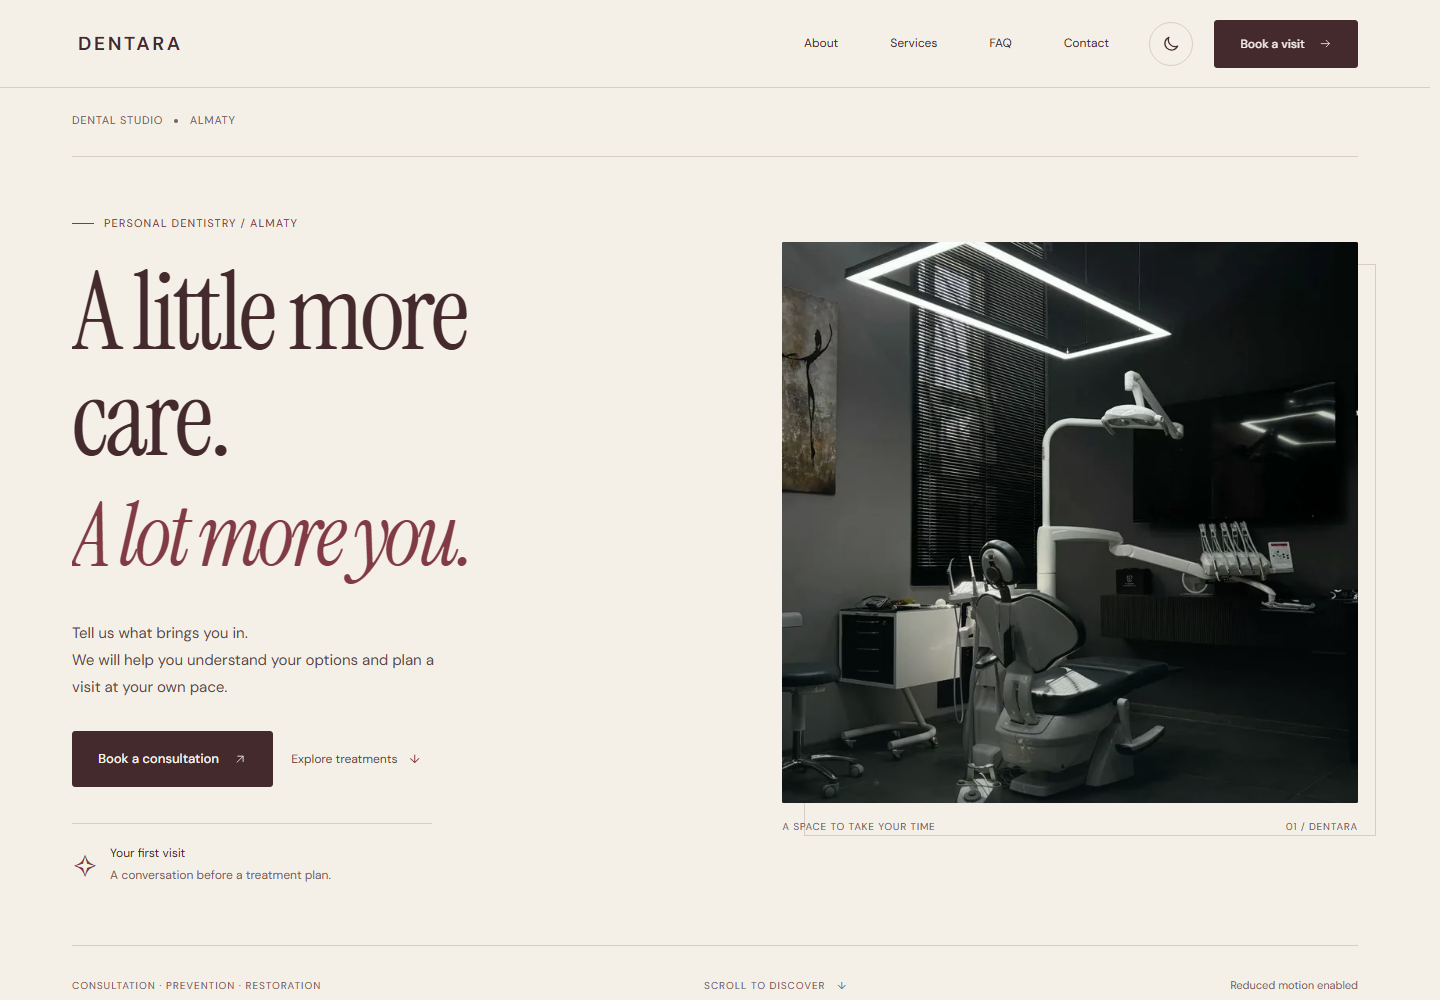
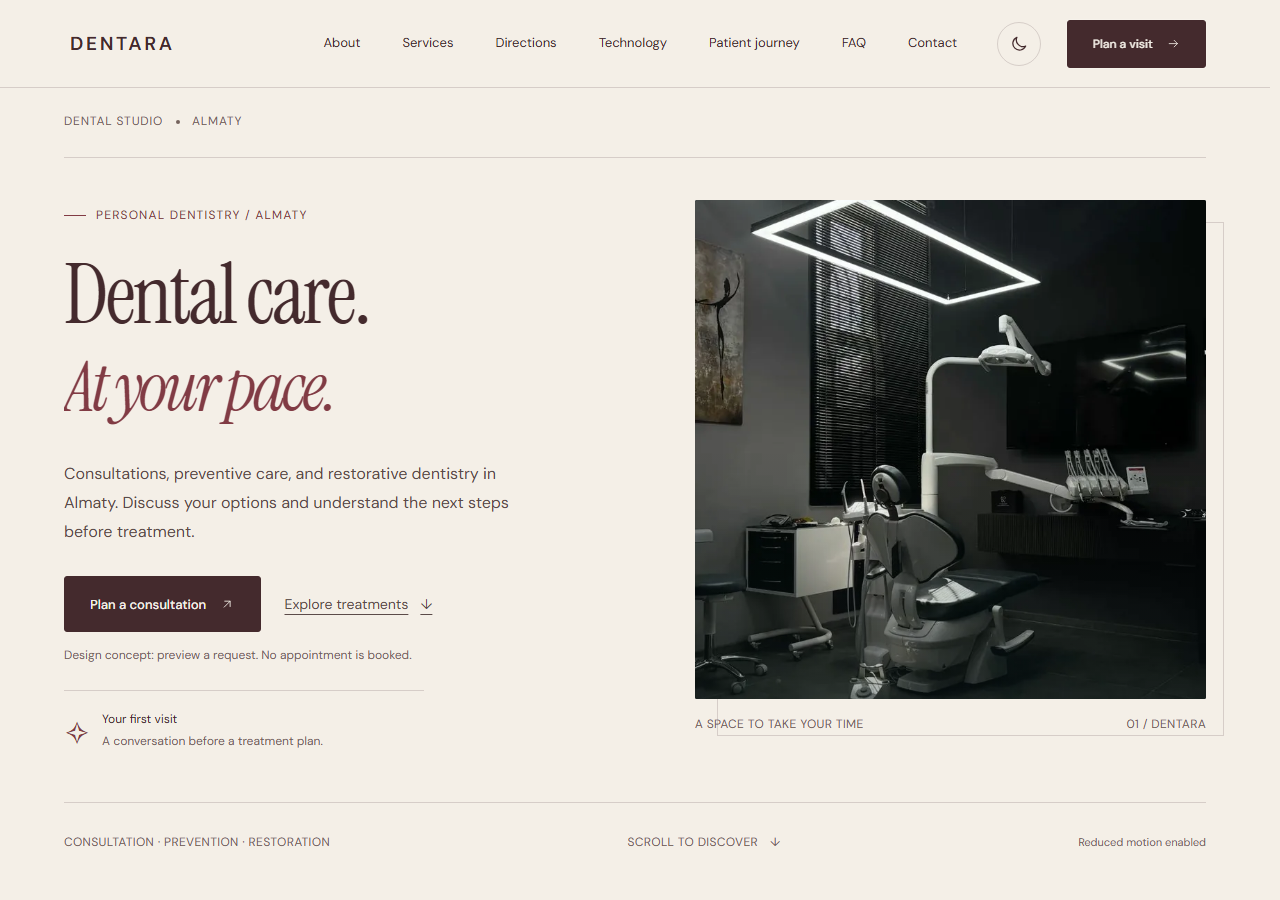
Fix mobile readability, navigation and misleading booking actions

diff --git a/studio.css b/studio.css
@@ -27,7 +27,7 @@ html {
 }
 .hero-editorial {
   padding-top: 112px;
-  min-height: 850px;
+  min-height: 0;
 }
 .hero-editorial .hero-meta {
   padding-bottom: 26px;
@@ -44,12 +44,12 @@ html {
 .hero-stage {
   grid-template-columns: 1.1fr 1fr;
   gap: 6%;
-  padding-block: 42px;
+  padding-block: 32px;
 }
 .hero-content .display {
   font-family: var(--serif);
   font-weight: 400;
-  font-size: clamp(4.5rem, 7.5vw, 8.5rem);
+  font-size: clamp(4rem, 6.6vw, 7rem);
   line-height: 0.98;
   letter-spacing: -0.035em;
   margin-block: 28px;
@@ -242,7 +242,7 @@ html {
     background: none;
     color: var(--ink);
     padding: 0;
-    font-size: 12px;
+    font-size: 14px;
   }
   .rail-nav li:nth-child(3),
   .rail-nav li:nth-child(4),
@@ -284,10 +284,10 @@ html {
   .hero-stage {
     grid-template-columns: 1fr;
     padding-block: 25px;
-    gap: 38px;
+    gap: 24px;
   }
   .hero-content .display {
-    font-size: clamp(3.7rem, 13.8vw, 6rem);
+    font-size: clamp(3.2rem, 12vw, 5rem);
     margin-block: 22px;
   }
   .hero-content .lead {
@@ -351,5 +351,165 @@ html {
   }
   .dir {
     min-height: 280px;
+  }
+}
+
+/* Usability review: readable details, honest CTAs, compact mobile flow. */
+.topbar,
+.topbar.scrolled {
+  background: var(--bg);
+  backdrop-filter: none;
+}
+.hero-content .lead {
+  max-width: 42ch;
+  font-size: 16px;
+}
+.hero-content .actions {
+  gap: 14px 24px;
+}
+.hero-services {
+  min-height: 48px;
+  font-size: 14px;
+  text-decoration: underline;
+  text-underline-offset: 5px;
+}
+.hero-disclaimer {
+  max-width: 43ch;
+  margin-top: 14px;
+  color: var(--muted);
+  font-size: 12px;
+  line-height: 1.6;
+}
+.hero-assurance {
+  margin-top: 24px;
+}
+.hero-portrait figcaption,
+.hero-bottom {
+  font-size: 12px;
+  letter-spacing: 0.03em;
+}
+.hero-meta-location,
+.hero-explore,
+.eyebrow {
+  font-size: 12px;
+}
+.svc-name {
+  font-family: var(--sans);
+  font-size: clamp(1.4rem, 2.6vw, 2rem);
+  font-weight: 500;
+  letter-spacing: -0.025em;
+}
+.svc-desc {
+  font: 400 16px/1.7 var(--sans);
+}
+.svc-price {
+  color: var(--ink-2);
+  font-size: 15px;
+}
+.service-note {
+  font-size: 14px;
+  line-height: 1.7;
+  max-width: 65ch;
+}
+.slat-cap {
+  position: static;
+  display: block;
+  max-width: 100%;
+  padding: 8px;
+  font-size: 12px;
+  white-space: normal;
+  line-height: 1.4;
+}
+.slat {
+  display: flex;
+  align-items: flex-end;
+}
+@media (min-width: 1280px) {
+  .rail {
+    gap: 20px;
+  }
+  .rail-nav ol {
+    gap: 14px;
+  }
+  .rail-nav li:nth-child(3),
+  .rail-nav li:nth-child(4),
+  .rail-nav li:nth-child(5) {
+    display: block;
+  }
+  .rail-nav .tip {
+    font-size: 13px;
+  }
+}
+@media (max-width: 700px) {
+  .hero-editorial {
+    padding-top: 84px;
+  }
+  .hero-editorial .hero-meta {
+    padding-bottom: 14px;
+  }
+  .hero-explore {
+    display: none;
+  }
+  .hero-stage {
+    padding-top: 20px;
+  }
+  .hero-content .display {
+    margin-block: 16px;
+  }
+  .hero-content .lead {
+    font-size: 16px;
+  }
+  .hero-content .actions {
+    display: flex;
+    align-items: stretch;
+    flex-direction: column;
+    gap: 4px;
+    margin-top: 22px;
+  }
+  .hero-content .btn {
+    width: 100%;
+    font-size: 15px;
+  }
+  .hero-services {
+    justify-content: center;
+    font-size: 14px;
+  }
+  .hero-disclaimer {
+    font-size: 12px;
+    margin-top: 8px;
+  }
+  .hero-bottom {
+    font-size: 11px;
+  }
+  .hero-portrait figcaption {
+    font-size: 11px;
+  }
+  .section-head {
+    grid-template-columns: minmax(0, 1fr);
+    gap: 20px;
+    margin-bottom: 28px;
+  }
+  .section-head .head-note {
+    max-width: 42ch;
+    font-size: 16px;
+    line-height: 1.7;
+  }
+  .svc-inner {
+    padding-left: 0;
+  }
+  .svc-name {
+    font-size: 23px;
+  }
+  .svc-inner .btn {
+    width: 100%;
+    justify-self: stretch;
+  }
+  .slats {
+    grid-template-rows: minmax(0, 1fr) 76px;
+    gap: 3px;
+  }
+  .slat-cap {
+    font-size: 11px;
+    padding: 6px;
   }
 }

diff --git a/index.html b/index.html
@@ -153,7 +153,7 @@
       </button>
     </header>
     <button class="btn btn-sm float-cta" type="button" data-book data-page>
-      Book a visit
+      Plan a visit
       <svg class="i" aria-hidden="true"><use href="#i-arrow" /></svg>
     </button>
 
@@ -220,7 +220,7 @@
       </nav>
       <div class="menu-foot">
         <button class="btn" type="button" data-book>
-          Book a visit
+          Plan a visit
           <svg class="i" aria-hidden="true"><use href="#i-arrow" /></svg>
         </button>
         <span class="menu-note">DENTARA · Independent design concept</span>
@@ -248,17 +248,17 @@
               <span></span> PERSONAL DENTISTRY / ALMATY
             </p>
             <h1 id="hero-title" class="display" data-reveal="lines">
-              <span class="ln"><span>A little more</span></span
-              ><span class="ln"><span>care.</span></span
-              ><span class="ln hero-serif"><span>A lot more you.</span></span>
+              <span class="ln"><span>Dental care.</span></span
+              ><span class="ln hero-serif"><span>At your pace.</span></span>
             </h1>
             <p class="lead" data-reveal="up" style="--d: 160ms">
-              Tell us what brings you in.<br />We will help you understand your
-              options and plan a visit at your own pace.
+              Consultations, preventive care, and restorative dentistry in
+              Almaty. Discuss your options and understand the next steps before
+              treatment.
             </p>
             <div class="actions" data-reveal="up" style="--d: 260ms">
               <button class="btn" type="button" data-book>
-                Book a consultation
+                Plan a consultation
                 <svg class="i" aria-hidden="true">
                   <use href="#i-out" />
                 </svg></button
@@ -266,6 +266,9 @@
                 >Explore treatments <span aria-hidden="true">↓</span></a
               >
             </div>
+            <p class="hero-disclaimer">
+              Design concept: preview a request. No appointment is booked.
+            </p>
             <div class="hero-assurance" data-reveal="fade" style="--d: 380ms">
               <span class="assurance-mark" aria-hidden="true">✧</span>
               <p>
@@ -427,12 +430,12 @@
         <div class="wrap">
           <header class="section-head">
             <h2 id="services-title" class="h2" data-reveal="lines">
-              <span class="ln"><span>Care for</span></span
-              ><span class="ln soft"><span>your everyday.</span></span>
+              <span class="ln"><span>Treatments</span></span
+              ><span class="ln soft"><span>&amp; fees.</span></span>
             </h2>
             <p class="head-note" data-reveal="up" style="--d: 150ms">
-              From the first consultation to the final result — your entire
-              treatment is brought together in one thoughtful space.
+              Compare treatments, indicative fees, and timelines. Open a
+              treatment to see the details.
             </p>
           </header>
           <p class="service-note">
@@ -1058,7 +1061,7 @@
             data-reveal="up"
             style="--d: 200ms"
           >
-            Book a visit
+            Plan a visit
             <svg class="i" aria-hidden="true"><use href="#i-arrow" /></svg>
           </button>
         </div>

diff --git a/tests/browser/site.spec.js b/tests/browser/site.spec.js
@@ -235,6 +235,37 @@ for (const width of [320, 390, 768, 1024, 1440]) {
     await expect(page.locator("#services-title")).toBeInViewport();
   });
 }
+test("mobile treatment introduction stacks and the sticky header stays opaque", async ({
+  page,
+}) => {
+  await page.setViewportSize({ width: 390, height: 844 });
+  await ready(page);
+  const title = await page.locator("#services-title").boundingBox();
+  const note = await page.locator("#services .head-note").boundingBox();
+  expect(note.y).toBeGreaterThanOrEqual(title.y + title.height);
+  await page.locator("#services").scrollIntoViewIfNeeded();
+  await expect(page.locator(".topbar")).toHaveCSS(
+    "background-color",
+    "rgb(244, 239, 231)",
+  );
+});
+
+test("desktop navigation exposes every section without overlapping controls", async ({
+  page,
+}) => {
+  await page.setViewportSize({ width: 1280, height: 900 });
+  await ready(page);
+  for (const link of await page.locator(".rail-nav a").all())
+    await expect(link).toBeVisible();
+  const brand = await page.locator(".brand-v").boundingBox();
+  const nav = await page.locator(".rail-nav").boundingBox();
+  const theme = await page.locator(".rail > .icon-btn").boundingBox();
+  const cta = await page.locator(".float-cta").boundingBox();
+  expect(brand.x + brand.width).toBeLessThan(nav.x);
+  expect(nav.x + nav.width).toBeLessThan(theme.x);
+  expect(theme.x + theme.width).toBeLessThan(cta.x);
+});
+
 test("all requested local assets resolve without errors", async ({ page }) => {
   const failures = [];
   page.on("response", (response) => {

diff --git a/docs/audit.md b/docs/audit.md
@@ -41,3 +41,13 @@
 Настоящий приём заявок не подключён: нет сервера и проверенных контактов клиники. Это явно обозначено в форме и документации. Формулировки/цены макета не являются клиническим предложением; редакционное сравнение не выдаётся за результаты пациентов.
 
 Микросервисы не добавлены: для текущей статической страницы полезнее модульный frontend. Ручная проверка Safari/Firefox, реальные мобильные устройства и длительные измерения FPS не выполнялись. Автоматический axe не заменяет полную экспертную проверку доступности.
+
+## UI review after the studio redesign
+
+- Replaced the abstract hero slogan with the service category and a shorter headline; reduced the type size and excess vertical space.
+- Stacked section headings and descriptions below 700px. The previous two-column layout squeezed mobile descriptions into narrow text strips.
+- Made the sticky mobile header opaque in its initial and scrolled states.
+- Used sans-serif text for treatment names and descriptions, increased prices and captions, and expanded the mobile consultation action.
+- Disclosed the preview-only flow next to the primary action and changed booking labels to planning labels.
+- Restored all seven section links at desktop widths of 1280px and above. Kept the compact primary navigation on smaller desktops.
+- Added regression checks for mobile introduction layout, opaque header, and desktop navigation overlap.
